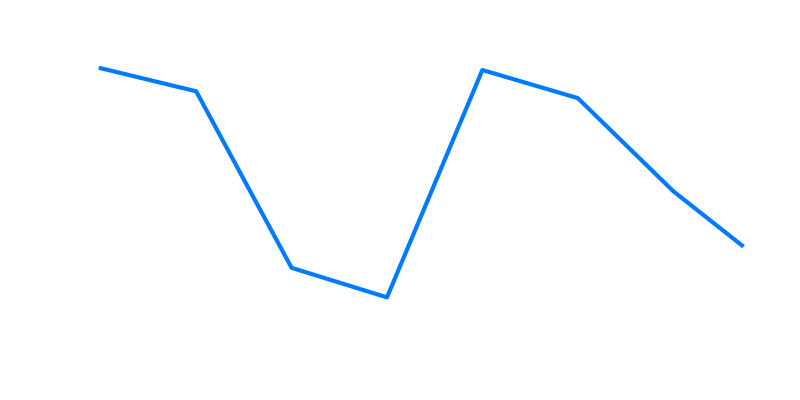
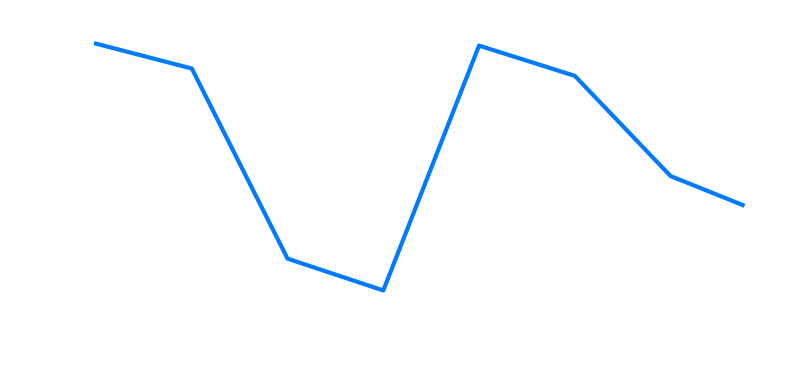
Update 1.4 append a corect graphics

diff --git a/app/templates/analytics.html b/app/templates/analytics.html
@@ -147,7 +147,30 @@
             height: 100%;
             object-fit: contain;
         }
+        .period-switcher {
+            display: flex;
+            gap: 15px;
+            margin-bottom: 25px;
+            justify-content: center;
+        }
 
+        .period-switcher a {
+            padding: 8px 18px;
+            border-radius: 20px;
+            background: rgba(255,255,255,0.05);
+            text-decoration: none;
+            color: white;
+            font-size: 14px;
+            transition: 0.3s;
+        }
+
+        .period-switcher a:hover {
+            background: rgba(255,255,255,0.15);
+        }
+
+        .period-switcher a.active {
+            background: #007aff;
+        }
         /* Секция инфо */
         .info-section {
             margin-top: 40px;
@@ -182,7 +205,11 @@
             <p>Актуальные данные котировок в реальном времени</p>
             <div class="binance-badge">Данные предоставлены официальным API Binance</div>
         </header>
-
+        <div class="period-switcher">
+            <a href="/analytics?days=7">7D</a>
+            <a href="/analytics?days=30">30D</a>
+            <a href="/analytics?days=90">90D</a>
+        </div>
         <div class="charts-grid">
             <div class="chart-card">
                 <div class="chart-title">

diff --git a/app/services/analytics_scraping.py b/app/services/analytics_scraping.py
@@ -11,11 +11,12 @@ import os
 
 templates = Jinja2Templates(directory="templates")
 
-def generate_crypto_plot(coin_id: str, filename: str):
+def generate_crypto_plot(coin_id: str, filename: str, days: int):
     # 1. Парсинг данных
     link = f"https://api.coingecko.com/api/v3/coins/{coin_id}/market_chart"
-    params = {"vs_currency": "usd", "days": 7, "interval": "daily"}
-    
+    params = {"vs_currency": "usd", "days": days, "interval": "daily"}
+    path = f"static/plots/{filename}"
+
     try:
         response = requests.get(link, params=params)
         data = response.json()
@@ -40,7 +41,7 @@ def generate_crypto_plot(coin_id: str, filename: str):
         plt.tight_layout()
         plt.savefig(path, transparent=True, bbox_inches='tight')
 
-        plt.title(f"{coin_id.capitalize()} Price (7 Days)", color='white', pad=20)
+        plt.title(f"{coin_id.capitalize()} Price ({days} Days)")
         plt.xticks(rotation=45)
         plt.tight_layout()
 
@@ -48,8 +49,7 @@ def generate_crypto_plot(coin_id: str, filename: str):
         os.makedirs("static/plots", exist_ok=True)
         
         # 3. Сохранение
-        path = f"static/plots/{filename}"
-        plt.savefig(path, transparent=True)
+        plt.savefig(path, transparent=True, bbox_inches="tight")
         plt.close() # Важно для очистки памяти
         return True
     except Exception as e:

diff --git a/app/routers/analytics.py b/app/routers/analytics.py
@@ -10,10 +10,13 @@ base_dir = os.path.dirname(os.path.dirname(os.path.abspath(__file__)))
 templates = Jinja2Templates(directory=os.path.join(base_dir, "templates"))
 
 @router.get("/analytics", response_class=HTMLResponse)
-def get_analytics(request: Request):
+def get_analytics(request: Request, days: int = 7):
 
-    generate_crypto_plot("bitcoin", "btc_chart.png")
-    generate_crypto_plot("ethereum", "eth_chart.png")
+    if days not in [7, 30, 90]:
+        days = 7
+
+    generate_crypto_plot("bitcoin", "btc_chart.png", days)
+    generate_crypto_plot("ethereum", "eth_chart.png", days)
 
     return templates.TemplateResponse(
         "analytics.html",
